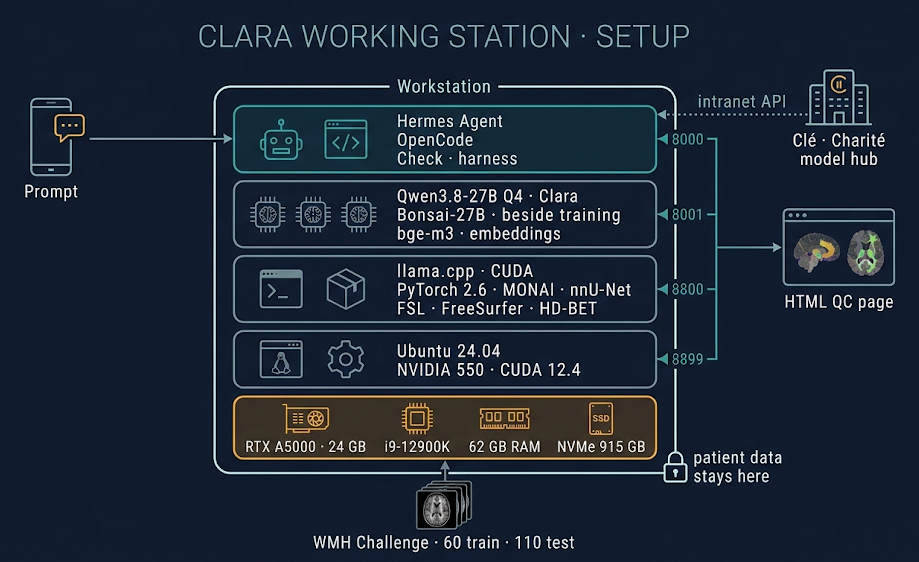
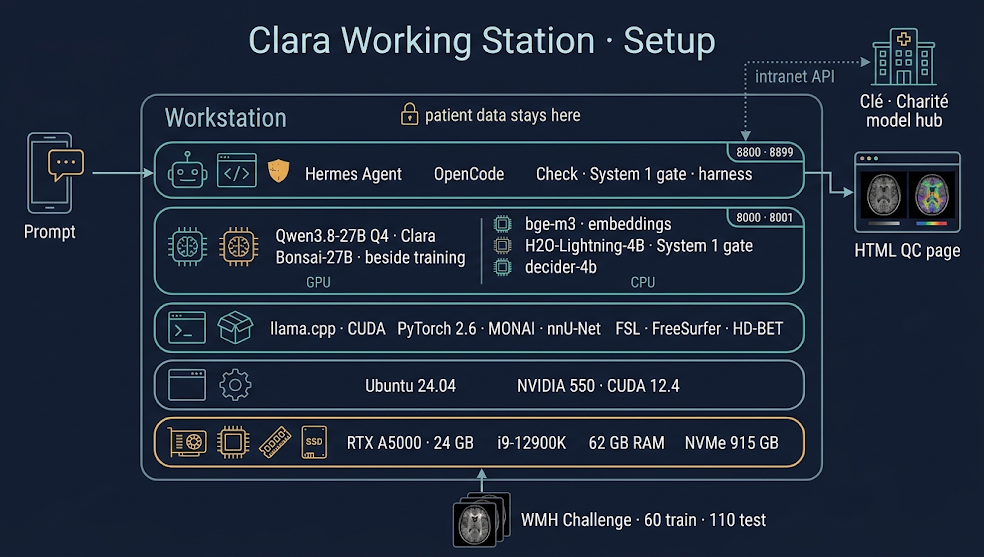
Setup diagram: ports on the right layers, GPU and CPU models split, System 1 gate shown

Changed region(s): [[0.0, 0.0305, 0.975, 1.0]]

diff --git a/index.html b/index.html
@@ -133,8 +133,8 @@ This keeps the card free for training.</li>
 </ul>
 
 <h2>Rebuild it: setup</h2>
-<a class="fig" href="setup.png"><img src="setup.png" width="919" height="562"
- alt="Setup: a five-layer stack inside the workstation, from hardware (RTX A5000 24 GB, i9-12900K, 62 GB RAM, NVMe) over Ubuntu 24.04 with NVIDIA 550 / CUDA 12.4, runtimes (llama.cpp, PyTorch, MONAI, nnU-Net, FSL, FreeSurfer, HD-BET), models (Qwen3.8-27B, Bonsai-27B, bge-m3) up to the agents (Hermes Agent, OpenCode, check harness); the prompt comes from a phone, Clé is reached over the intranet API, WMH Challenge data come in, an HTML QC page goes out"></a>
+<a class="fig" href="setup.png"><img src="setup.png" width="984" height="557"
+ alt="Setup: a five-layer stack inside the workstation, from hardware (RTX A5000 24 GB, i9-12900K, 62 GB RAM, NVMe) over Ubuntu 24.04 with NVIDIA 550 / CUDA 12.4 and the runtimes (llama.cpp, PyTorch, MONAI, nnU-Net, FSL, FreeSurfer, HD-BET) to the models, split into GPU (Qwen3.8-27B for Clara, Bonsai-27B beside training) and CPU (bge-m3 embeddings, H2O-Lightning-4B as System 1 gate, decider-4b), and the agents on top (Hermes Agent, OpenCode, check, System 1 gate, harness); the prompt comes from a phone, Clé is reached over the intranet API, WMH Challenge data come in, an HTML QC page goes out"></a>
 <p class="s">What it takes to set up the same system. Measured on Alita, versions as of October 2026.
 Full list, services and steps in the <a class="gh" href="https://github.com/mendeltem/clara_working_station#rebuild-it-setup">README</a>,
 scripts in <a class="gh" href="https://github.com/mendeltem/local_models/tree/main/alita">local_models/alita</a>.</p>

diff --git a/README.md b/README.md
@@ -143,7 +143,7 @@ What the agents learned along the way is collected in the wiki
 
 ## Rebuild it: setup
 
-![Setup: a five-layer stack inside the workstation, from hardware (RTX A5000 24 GB, i9-12900K, 62 GB RAM, NVMe) over Ubuntu 24.04 with NVIDIA 550 / CUDA 12.4, runtimes (llama.cpp, PyTorch, MONAI, nnU-Net, FSL, FreeSurfer, HD-BET), models (Qwen3.8-27B, Bonsai-27B, bge-m3) up to the agents (Hermes Agent, OpenCode, check harness); the prompt comes from a phone, Clé is reached over the intranet API, WMH Challenge data come in, an HTML QC page goes out](setup.png)
+![Setup: a five-layer stack inside the workstation, from hardware (RTX A5000 24 GB, i9-12900K, 62 GB RAM, NVMe) over Ubuntu 24.04 with NVIDIA 550 / CUDA 12.4 and the runtimes (llama.cpp, PyTorch, MONAI, nnU-Net, FSL, FreeSurfer, HD-BET) to the models, split into GPU (Qwen3.8-27B for Clara, Bonsai-27B beside training) and CPU (bge-m3 embeddings, H2O-Lightning-4B as System 1 gate, decider-4b), and the agents on top (Hermes Agent, OpenCode, check, System 1 gate, harness); the prompt comes from a phone, Clé is reached over the intranet API, WMH Challenge data come in, an HTML QC page goes out](setup.png)
 
 Everything needed to set up the same system on another machine. Numbers are
 measured on Alita unless marked otherwise; versions are those in use in
